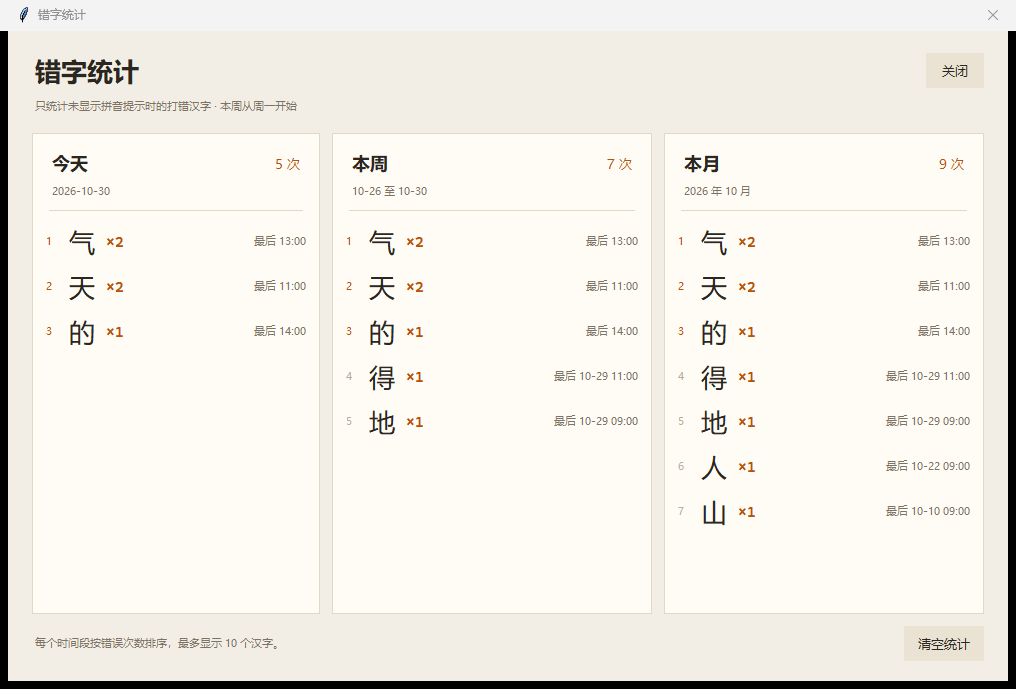
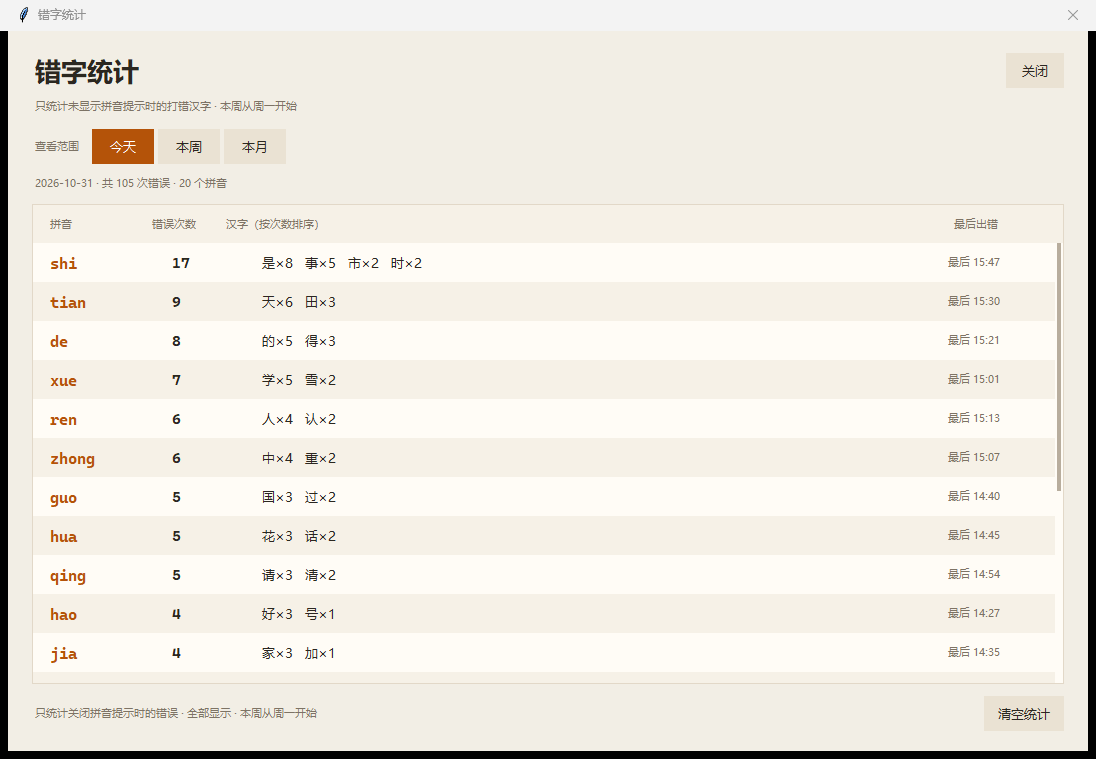
docs: refresh screenshots and statistics guide

diff --git a/README.md b/README.md
@@ -18,7 +18,8 @@
 - 实时显示进度和速度（字/分），完成后按 Enter 进入下一句。
 - 练习分组下拉框，可只练某一个分组，也可以练全部分组。
 - 可选“显示拼音提示”，在汉字上方显示正确拼音。
-- 未开启拼音提示时自动记录打错的汉字和时间，按今天、本周、本月统计高频错字。
+- 未开启拼音提示时自动记录打错的汉字、目标拼音和时间；统计窗口用三个按钮切换今天、本周、本月，按拼音汇总错误次数和对应汉字。
+- 顶部“今日输入”卡片显示今天已经正确完成输入的汉字拼音个数；每日数量会保存到本地。
 - 118 句内置练习，覆盖日常生活、自然、学习工作、旅行美食、成语诗词、绕口令、生活感悟和小学语文课文。
 - 亮色 / 暗色两种配色，设置会自动保存。
 - 字号可在 32–96 之间调整，默认 56；句子过长时句子区可滚动，不挤压输入区。
@@ -107,12 +108,23 @@ pixi add pypinyin
 
 - 当输入到某个字时打错拼音，会记录当前汉字、目标拼音、已输入内容和时间。
 - 同一次错误不会因为继续按键而重复记录；退格改正后再次打错会重新记录。
-- 点击底部“错误统计”按钮，可查看今天、本周、本月的高频错字。
-- 每个时间段显示错误次数和最后一次出错时间；按错误次数从高到低排列，最多显示 10 个汉字。
+- 点击底部“错误统计”按钮，统计窗口顶部有三个按钮：**今天、本周、本月**，一次只显示一个时间段。
+- 统计按**拼音**汇总，例如 `shi` 错误 20 次，并列出对应的汉字及各自错误次数，如“是×12、事×8”。
+- 不再只显示前十个；所有拼音分组都会显示，超出窗口高度时可以滚动查看。
+- 每一行还会显示该拼音最后一次出错的时间。
 - “本周”从周一开始。
 - 统计窗口中可以点击“清空统计”清除全部记录。
 
 统计只保存在本机项目目录的 `.stats.json` 中，不会上传到任何地方。该文件已被 Git 忽略。
+
+### 今日输入数量
+
+顶部第四个统计卡片“今日输入”显示今天已经正确完成输入的汉字拼音个数：
+
+- 每正确完成一个汉字的拼音，计数加 1。
+- 同一次尝试中，每个汉字只计一次；重开或换句后会重新开始计数。
+- 数字按本地日期保存到 `.daily.json`，重启应用后仍会恢复今天的累计数量。
+- `.daily.json` 同样只保存在本机，已被 Git 忽略。
 
 ## 字号与主题
 
@@ -163,19 +175,19 @@ pinyin-typing/
 ├─ main.py              # 入口、DPI 和错误提示
 ├─ app.py               # Tkinter 界面、分组、提示、主题、计时器
 ├─ trainer.py           # 拼音生成、输入判定、分组解析、自动分字
-├─ stats.py             # 错字记录与今天/本周/本月聚合
+├─ stats.py             # 错字记录、按拼音聚合、每日输入计数
 ├─ sentences.txt        # 118 句、9 个分组的题库
 ├─ docs/                # 界面与统计窗口预览
 ├─ tests/
 │  ├─ test_trainer.py   # 拼音、分组、自动分字测试
-│  └─ test_stats.py     # 错字统计与时间范围测试
+│  └─ test_stats.py     # 错字统计、拼音聚合、每日计数测试
 ├─ run.bat              # 正常启动（pythonw）
 ├─ run-debug.bat        # 调试启动（显示控制台）
 ├─ requirements.txt
 └─ .gitignore
 ```
 
-`.settings.json` 和 `.stats.json` 是运行后自动生成的本地文件，已被 Git 忽略。
+`.settings.json`、`.stats.json` 和 `.daily.json` 是运行后自动生成的本地文件，已被 Git 忽略。
 
 ## 测试
 
@@ -184,4 +196,4 @@ cd C:\Users\kaiwen\Documents\deepseek-harness\default-workspace\pinyin-typing
 & "C:\py\.pixi\envs\default\python.exe" -m unittest discover -s tests -v
 ```
 
-当前共 34 个测试，覆盖拼音解析、多音字、标点跳过、输入规范化、自动分字、分组解析、错字统计时间范围、计时格式、随机不重复和题库加载。
+当前共 39 个测试，覆盖拼音解析、多音字、标点跳过、输入规范化、自动分字、分组解析、错字统计时间范围、按拼音聚合、每日输入计数、计时格式、随机不重复和题库加载。
